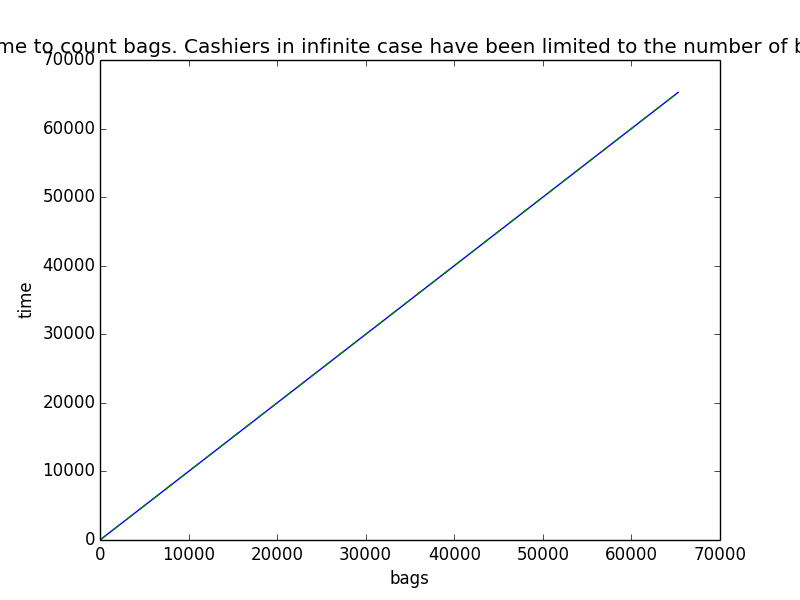
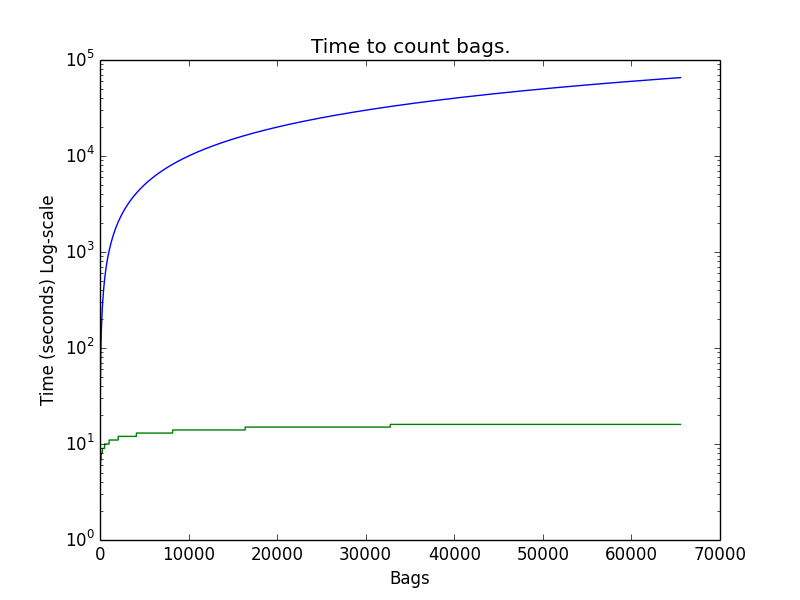
Gave my P5 a makeover

diff --git a/HW0/P5/P5.py b/HW0/P5/P5.py
@@ -1,34 +1,32 @@
 import matplotlib.pyplot as plt
+import numpy as np
+import math
 
 __author__ = 'Reinier Maat'
 
 if __name__ == "__main__":
 
-    n_bags = range(1, 65536, 256)
+    n_bags = range(1, 65536, 1)
 
-    # Single case, all is added to the first pile
-    def time_taken_for_number_of_cashiers(number_of_bags, number_of_cashiers):
-        cashiers_in_use = 0
-        if number_of_cashiers > number_of_bags:
-            cashiers_in_use = number_of_bags    # other cashiers have nothing to do
-        else:
-            cashiers_in_use = number_of_cashiers
-        return (number_of_bags/cashiers_in_use) + (cashiers_in_use - 1)  # communication to main cashier
+    def single_cashier(bags):
+        return math.ceil(bags - 1)
 
-    single_cashier = 1
+    def infinite_cashiers(bags):
+        return math.ceil(np.log2(bags))
+
     single_result = []
     for n in n_bags:
-        single_result.append(time_taken_for_number_of_cashiers(n, single_cashier))
+        single_result.append(single_cashier(n))
 
-    infinite_cashiers = 1e99
     infinite_result = []
     for n in n_bags:
-        infinite_result.append(time_taken_for_number_of_cashiers(n, infinite_cashiers))
+        infinite_result.append(infinite_cashiers(n))
 
     plt.plot(n_bags, single_result, '-b')
-    plt.plot(n_bags, infinite_result, '--g')
-    plt.xlabel('bags')
-    plt.ylabel('time')
-    plt.title('Time to count bags. Cashiers in infinite case have been limited to the number of bags')
+    plt.plot(n_bags, infinite_result, '-g')
+    plt.yscale('log')
+    plt.xlabel('Bags')
+    plt.ylabel('Time (seconds) Log-scale')
+    plt.title('Time to count bags.')
     plt.show()
 
